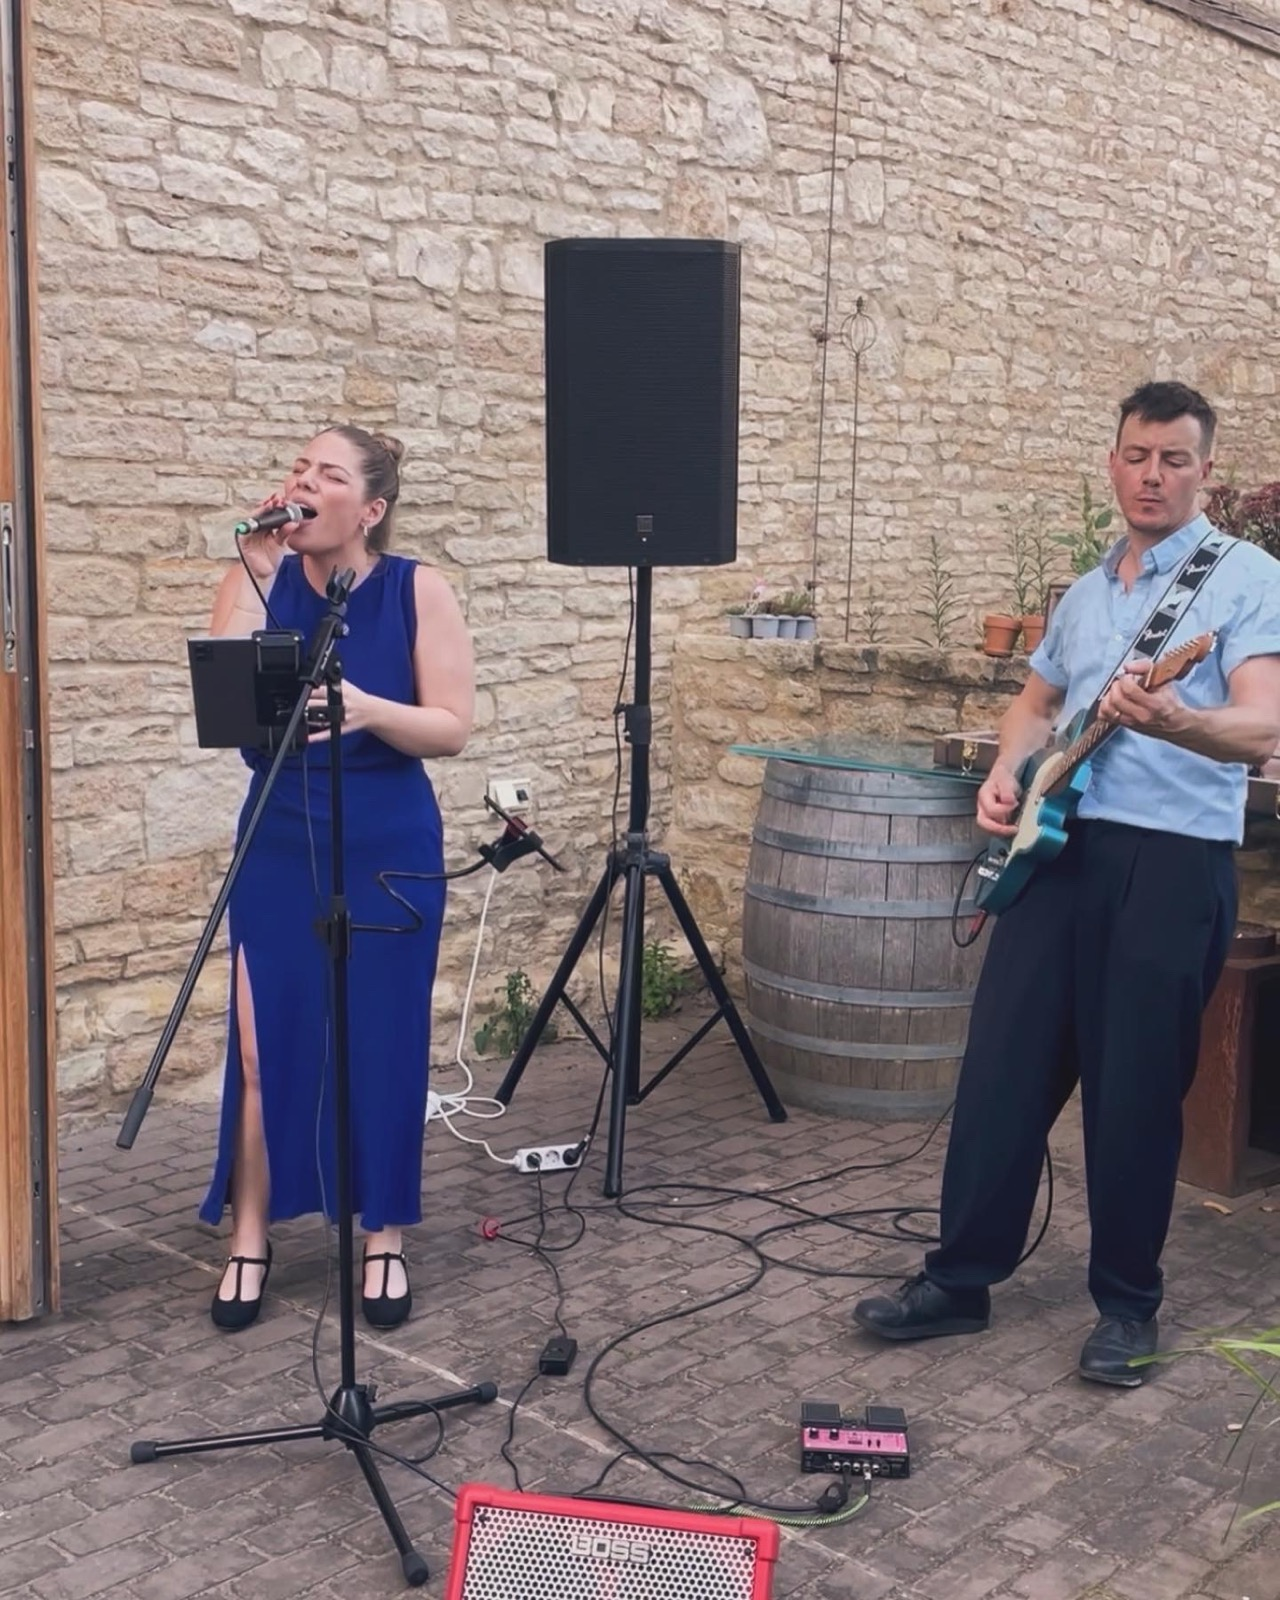
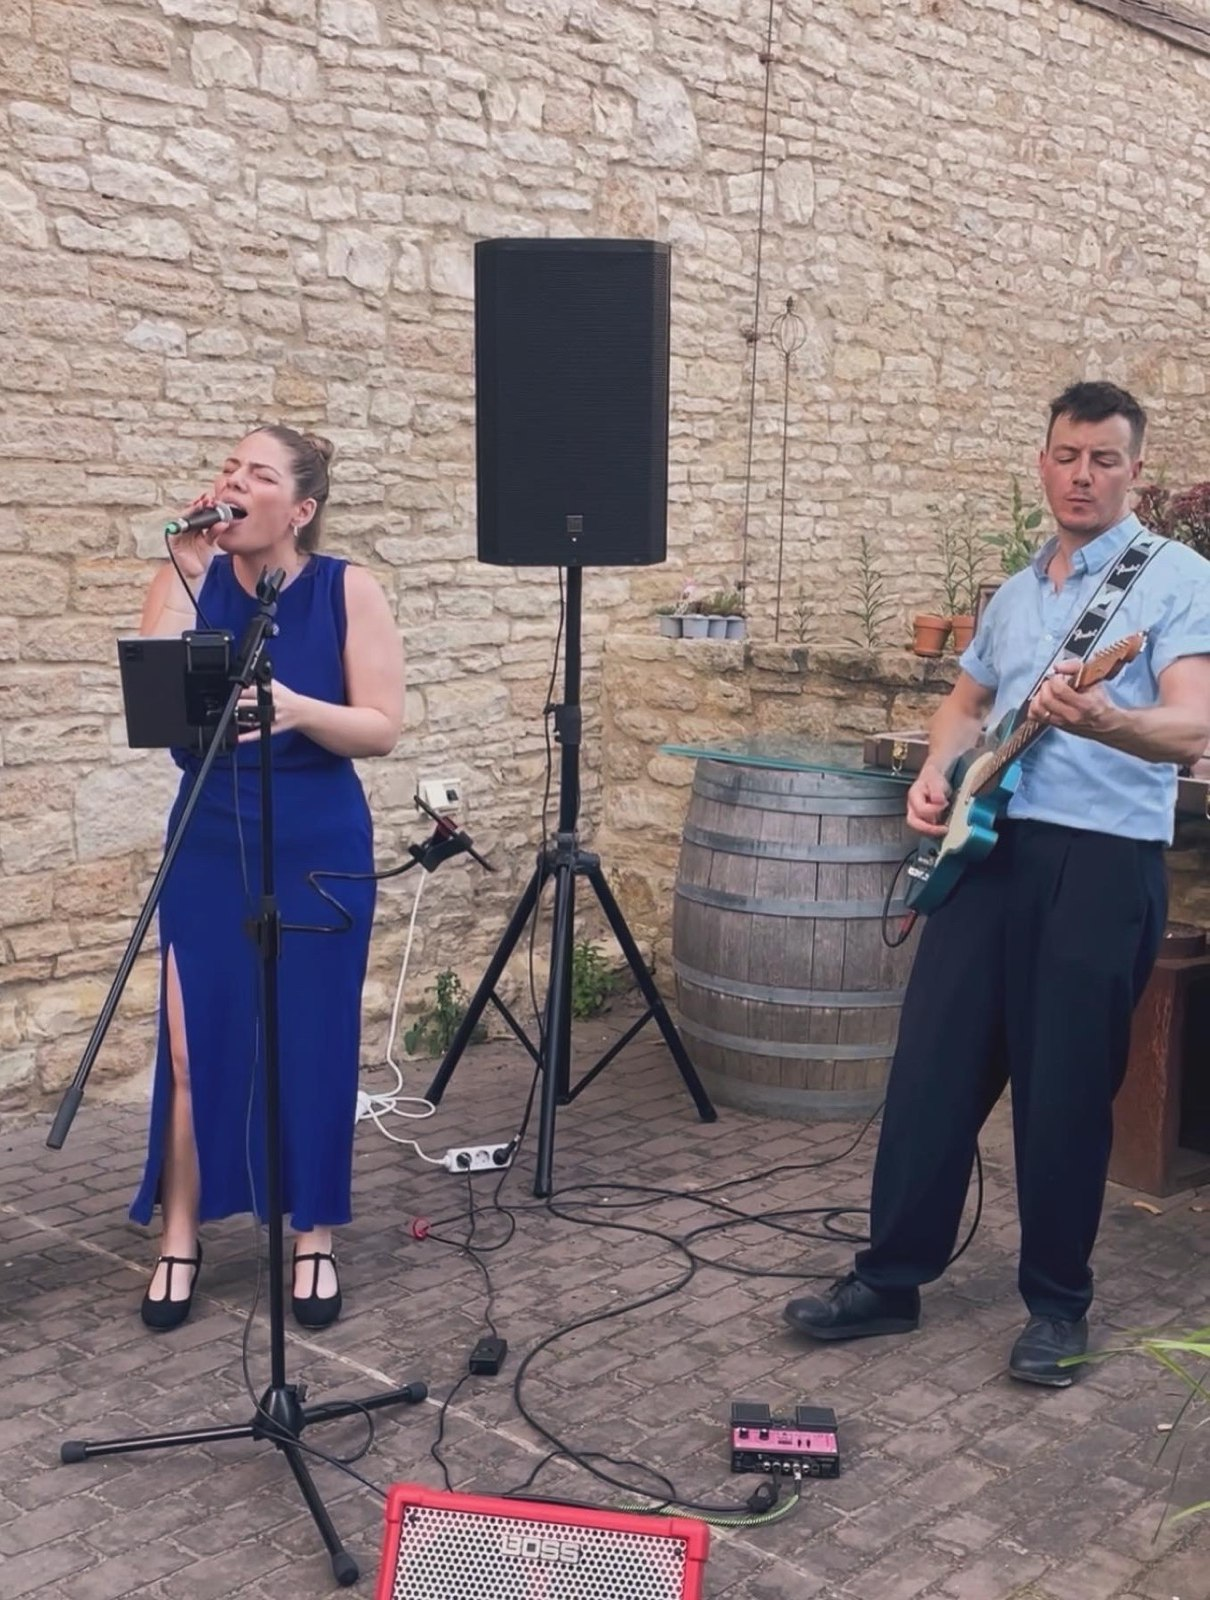
Wedding hero: crop the door off the left of the courtyard photo

diff --git a/css/style.css b/css/style.css
@@ -708,14 +708,14 @@ html:not(.no-js) .setlist:not(.is-expanded) li:nth-child(n+13) { display: none; 
   align-items: flex-end;
   padding: calc(var(--header-height) + 40px) 0 64px;
   color: #fff;
-  /* Main photo: the stone courtyard (1280×1600, 4:5).
+  /* Main photo: the stone courtyard (1210×1600; 70 px cropped off the left to remove a door).
      Phones: show the WHOLE photo across the full width (never crop the sides, Diet stands at the right edge),
      text sits below it on a dark warm background, with a soft fade in between.
      From 768px: full-screen photo, see the media query below. */
   min-height: 0;
-  padding-top: 112vw;                 /* photo is 125vw tall; the text overlaps its faded bottom */
+  padding-top: 118vw;                 /* photo (1210×1600, door cropped off) is 132vw tall; the text overlaps its faded bottom */
   background:
-    linear-gradient(180deg, rgba(43, 35, 33, 0) 60%, rgba(43, 35, 33, .85) 88%, #2b2321 100%) top center / 100% 125vw no-repeat,
+    linear-gradient(180deg, rgba(43, 35, 33, 0) 60%, rgba(43, 35, 33, .85) 88%, #2b2321 100%) top center / 100% 132vw no-repeat,
     url("../images/wedding-courtyard.jpg") top center / 100% auto no-repeat,
     #2b2321;
 }
